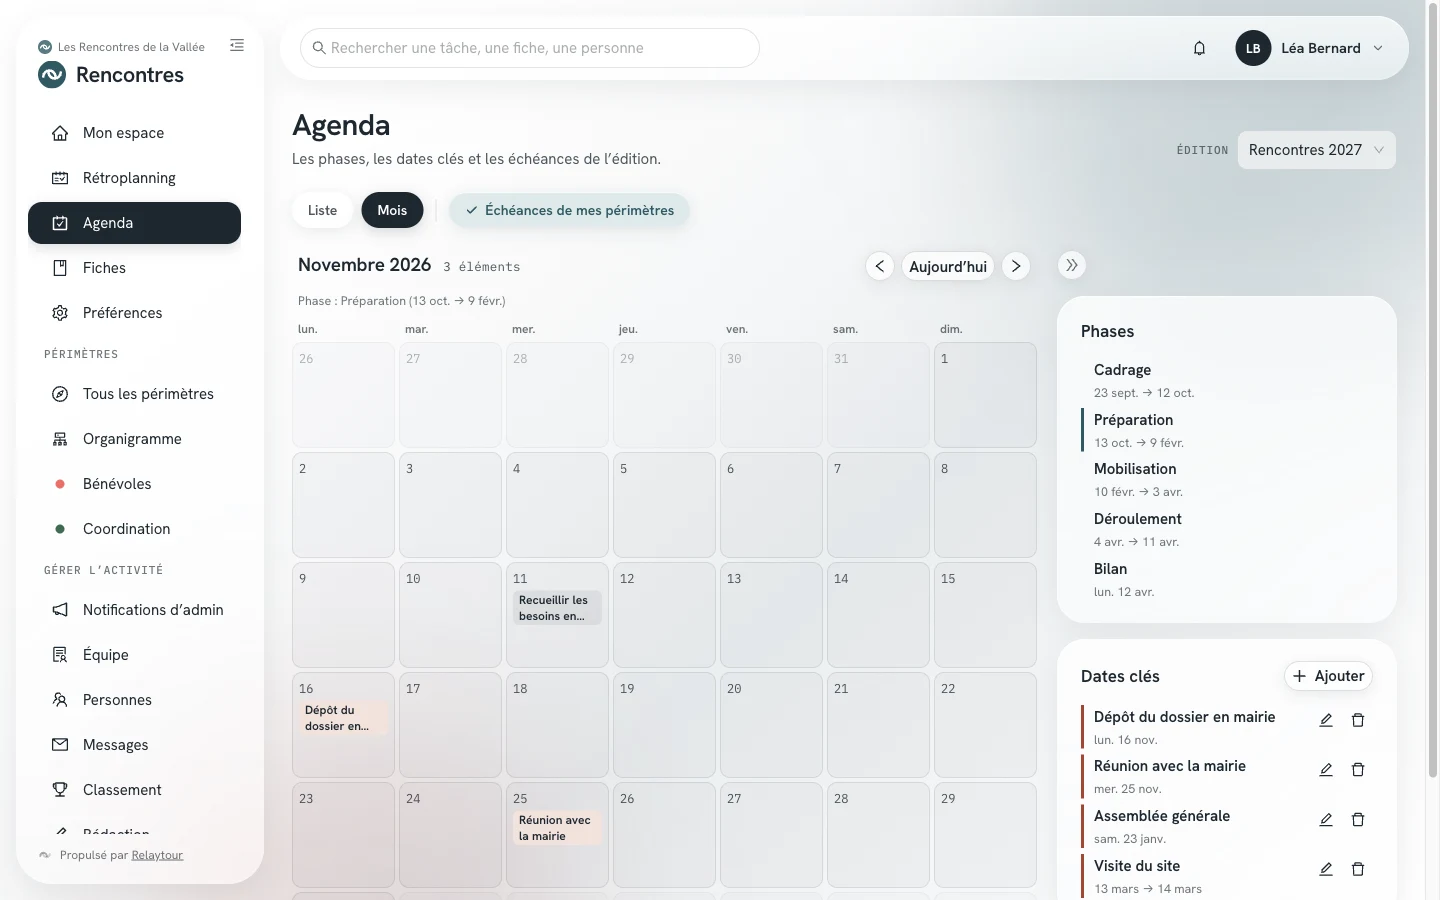
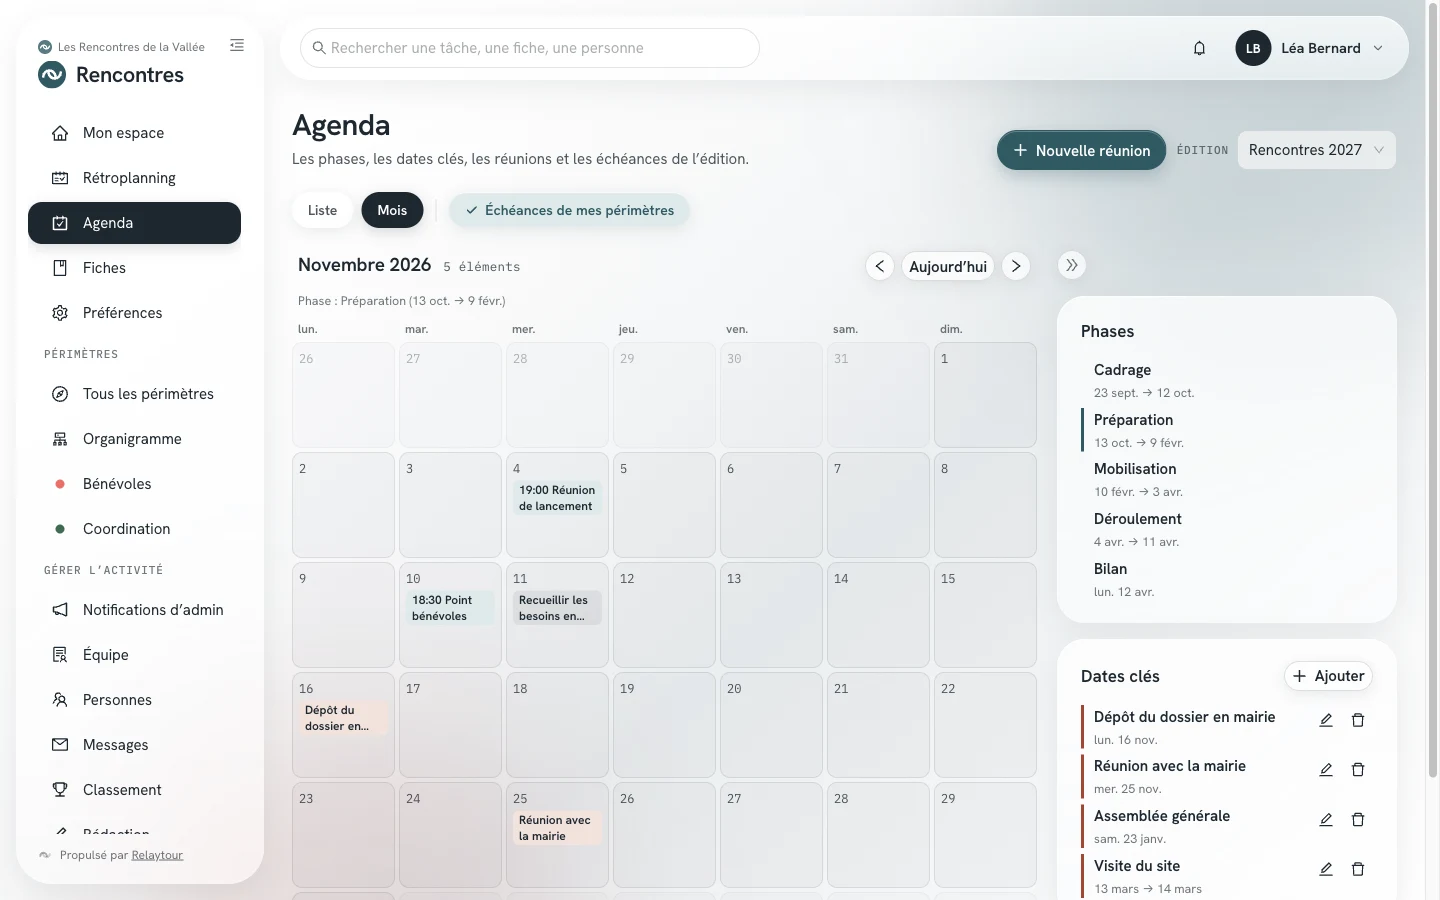
docs(site): décrire les réunions et les convocations (ADR 0037)
Le mode d'emploi des référentes et référents décrit la création d'une
réunion, la convocation, la réponse et l'annulation. Celui des admins
d'activité décrit l'agenda global, et celui de l'installation la famille
de notifications « Vos réunions ». Les captures de bureau de l'agenda
montrent les réunions de l'organisation d'exemple.

diff --git a/site/modes-d-emploi/referent.html b/site/modes-d-emploi/referent.html
@@ -114,7 +114,7 @@
 
         <article class="verre ecran" id="e-agenda">
           <div class="ecran-tete"><h3>Agenda</h3><span class="route">/&lt;activité&gt;/agenda</span></div>
-          <p>L'agenda présente les repères de la période : ses phases, son premier et son dernier jour, et les dates clés placées par les admins de l'activité. Une date clé signale un jour qui compte pour toute l'équipe, par exemple un dossier à déposer ou une assemblée. L'agenda ajoute les échéances des tâches de vos périmètres.</p>
+          <p>L'agenda présente les repères de la période : ses phases, son premier et son dernier jour, et les dates clés placées par les admins de l'activité. Une date clé signale un jour qui compte pour toute l'équipe, par exemple un dossier à déposer ou une assemblée. L'agenda affiche aussi les réunions de l'activité et de ses périmètres, et les échéances des tâches de vos périmètres.</p>
           <p>La liste range ces éléments par mois, à partir d'aujourd'hui. Chaque échéance mène à son périmètre. Sur un écran large, la vue « Mois » affiche une grille du lundi au dimanche, avec la phase en cours au-dessus.</p>
           <ul class="gestes">
             <li><span><span class="libelle">Liste</span><span class="libelle">Mois</span></span><span>Choisir l'affichage. La vue « Mois » n'existe pas sur un téléphone.</span></li>
@@ -126,6 +126,19 @@
             <figcaption>Écran Agenda, sur l'organisation d'exemple. Les dates sont fictives.</figcaption>
           </figure>
           <p class="note">La colonne de droite liste les phases, puis les dates clés de la période. Un liseré marque la phase en cours.</p>
+          <p>Une <strong>réunion</strong> appartient à l'agenda d'un périmètre, ou à l'agenda global de l'activité, que tiennent ses admins. Vous créez les réunions de vos périmètres : un titre, un jour, une heure de début et de fin, un lieu, un lien de visio, une description et des tâches liées. Les horaires suivent le fuseau de votre organisation.</p>
+          <p>Une réunion <strong>convoque</strong> tout le périmètre, toute l'équipe de l'activité, ou des personnes choisies dans l'équipe. Chaque personne convoquée reçoit un mail, deux minutes plus tard, avec un fichier qui ajoute la réunion à son agenda. Elle répond dans l'espace organisateur. Une réponse envoyée depuis Outlook ou Google n'y arrive pas.</p>
+          <ul class="gestes">
+            <li><span><span class="libelle">Nouvelle réunion</span></span><span>Créer une réunion dans l'agenda d'un de vos périmètres. Le menu « Autres actions » d'une tâche propose aussi « Planifier une réunion », avec la tâche déjà liée.</span></li>
+            <li><span><span class="libelle">Présent·e</span><span class="libelle">Absent·e</span><span class="libelle">Peut-être</span></span><span>Répondre à une convocation, dans le volet de la réunion. Vous changez votre réponse à tout moment.</span></li>
+            <li><span><span class="libelle">Modifier</span></span><span>Changer une réunion de votre périmètre. Un changement d'horaire, de lieu ou de lien envoie une nouvelle version aux personnes convoquées.</span></li>
+            <li><span><span class="libelle">Annuler la réunion</span></span><span>Garder la réunion dans l'agenda, marquée annulée. Chaque personne convoquée reçoit un mail d'annulation.</span></li>
+          </ul>
+          <figure>
+            <img src="../captures/reunion.webp" data-mobile="../captures/mobile/reunion.webp" width="1440" height="900" loading="lazy" alt="Volet d'une réunion : l'horaire, le lieu, le bouton de visio, la tâche liée, la réponse de la personne et les réponses de l'équipe." />
+            <figcaption>Le volet d'une réunion du pôle Bénévoles, sur l'organisation d'exemple.</figcaption>
+          </figure>
+          <p class="note">Les personnes qui écrivent dans l'agenda d'une réunion lisent les réponses une à une. Une personne qui consulte un autre périmètre voit le titre et l'horaire de ses réunions, sans le lieu, le lien de visio ni la description. Quand vous quittez un périmètre, vous quittez aussi ses réunions à venir.</p>
         </article>
 
         <article class="verre ecran" id="e-tous-les-perimetres">
@@ -168,6 +181,7 @@
             <li><span><span class="libelle">Par échéance</span><span class="libelle">Par phase</span><span class="libelle">Par fiche</span></span><span>Choisir le regroupement des tâches. Votre navigateur garde ce choix. Le regroupement par fiche demande d'être affecté·e au périmètre.</span></li>
             <li><span><span class="libelle">Nouvelle tâche</span></span><span>Ajouter une tâche à votre périmètre : titre, description, échéance et fiche liée. La case « Je m'en occupe » est cochée par défaut.</span></li>
             <li><span><span class="libelle">Modifier</span></span><span>Corriger une tâche existante depuis le menu « Autres actions » de sa carte.</span></li>
+            <li><span><span class="libelle">Prochaines réunions</span></span><span>Lire les cinq prochaines réunions du périmètre dans la colonne de droite, et en créer une avec « Nouvelle ».</span></li>
             <li><span><span class="libelle">Proposer une personne</span></span><span>Proposer à un admin une personne qui veut rejoindre votre périmètre : son prénom et son nom, son adresse, et un mot facultatif. Un admin examine la proposition, puis invite la personne. Elle ne reçoit aucun mail avant sa décision.</span></li>
           </ul>
           <p class="note">Ces actions sont ouvertes aux personnes affectées au périmètre pour la période consultée. Une période archivée passe ses tâches en lecture seule.</p>

diff --git a/site/modes-d-emploi/installer.html b/site/modes-d-emploi/installer.html
@@ -161,7 +161,7 @@
             <li><span><span class="libelle">2</span></span><span>Dans le panneau « Notifications sur cet appareil », toucher <span class="libelle">Activer sur cet appareil</span>.</span></li>
             <li><span><span class="libelle">3</span></span><span>Répondre « Autoriser » à la question de votre téléphone.</span></li>
           </ul>
-          <p class="note">L'activation vaut pour cet appareil seulement : vous la répétez sur chaque téléphone ou ordinateur. Des réglages coupent une famille de notifications sur tous vos appareils : vos tâches et les échéances, puis, pour les admins, les demandes et l'équipe de leurs activités. Ces réglages valent pour l'organisation affichée. Vos mails ne changent pas.</p>
+          <p class="note">L'activation vaut pour cet appareil seulement : vous la répétez sur chaque téléphone ou ordinateur. Des réglages coupent une famille de notifications sur tous vos appareils : vos tâches, les échéances et vos réunions, puis, pour les admins, les demandes et l'équipe de leurs activités. Ces réglages valent pour l'organisation affichée. Vos mails ne changent pas.</p>
           <p class="note">Le panneau n'apparaît pas quand votre organisation n'a pas ouvert les notifications. Une déconnexion les désactive sur l'appareil.</p>
         </article>
       </section>

diff --git a/site/modes-d-emploi/admin-activite.html b/site/modes-d-emploi/admin-activite.html
@@ -233,6 +233,7 @@
             <li><span><span class="libelle">Enregistrer</span></span><span>Modifier le nom, les dates ou le statut d'une période. L'année ne change plus après la création.</span></li>
           </ul>
           <p>Les dates clés d'une période se placent depuis l'écran <strong>Agenda</strong>, dans la colonne de droite. Une date clé porte un titre, un jour ou une suite de jours, et une description facultative. Toute l'équipe de l'activité la voit dans son agenda.</p>
+          <p>Vous tenez aussi l'<strong>agenda global</strong> de l'activité : ses réunions convoquent toute l'équipe ou des personnes choisies, tous périmètres confondus. Vous écrivez de même dans l'agenda de chaque périmètre. Une réunion globale peut lier des tâches de plusieurs périmètres, vingt au plus.</p>
           <ul class="gestes">
             <li><span><span class="libelle">Ajouter</span></span><span>Placer une date clé dans l'agenda de la période affichée.</span></li>
           </ul>
